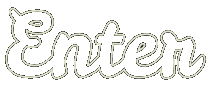
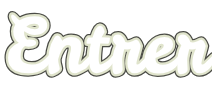
Traduction française du jeu
Textes de l'interface, messages et aide traduits en français ; <html lang="fr">.
Détails dans CREDITS.md.

Claude-Session: https://claude.ai/code/session_01CXcQNMjYzTeZ9FGycWHb11

Changed region(s): [[0.0, 0.0612, 1.0, 0.8265]]

diff --git a/sound.js b/sound.js
@@ -51,15 +51,15 @@ function drawSoundControl() {
     ctx.fillRect(10, 10, 50, 20)
     ctx.fillStyle = '#333'
     ctx.font = 'normal 14px sans'
-    ctx.fillText('By: Zolmeister', 10, 20)
+    ctx.fillText('Par : Zolmeister', 10, 20)
     ctx.font = 'normal 12px sans'
-    ctx.fillText('Music: Chrissi J', 10, 42)
+    ctx.fillText('Musique : Chrissi J', 10, 42)
   } else if (GAME.state === 'menu') {
     ctx.fillStyle = '#111'
     ctx.fillRect(10, 10, 50, 20)
     ctx.fillStyle = '#333'
     ctx.font = 'normal 12px sans'
-    ctx.fillText('About', 10, 20)
+    ctx.fillText('À propos', 10, 20)
   }
 
 }

diff --git a/index.html b/index.html
@@ -1,5 +1,5 @@
 <!DOCTYPE html>
-<html>
+<html lang="fr">
     <head>
         <title>The Pond</title>
         <meta charset="utf-8">
@@ -30,7 +30,7 @@
         </script>
       <!-- Joxia : bouton Quitter + commandes tactiles + adaptation mobile -->
   <!-- Joxia : bouton Quitter + commandes tactiles + adaptation mobile -->
-  <script src="https://joxiagame.github.io/Joxia-Games/touch.js" charset="utf-8" data-quit="tl"></script>
+  <script src="https://joxiagame.github.io/Joxia-Games/touch.js" charset="utf-8" data-quit="bl"></script>
 </head>
     <style>
         body {

diff --git a/CREDITS.md b/CREDITS.md
@@ -18,5 +18,6 @@ Ce dépôt est un fork, hébergé sur GitHub Pages pour le hub Joxia Games
 - ce fichier `CREDITS.md` et un bandeau de crédits en tête du README ;
 - le script de suivi du temps de jeu du hub (`tracker.js`) avant `</body>`, si présent.
 - `touch.js` du hub dans le `<head>` de `index.html` : bouton « Quitter » vers le hub, commandes tactiles (manette virtuelle qui simule le clavier, glisser au doigt) et adaptation à l'écran mobile ;
+- traduction française des textes du jeu : `assets/enter.png` redessiné avec « Entrer » dans la police d'origine (Leckerli One) ;
 
 L'historique Git complet (commits des auteurs d'origine) est conservé.
